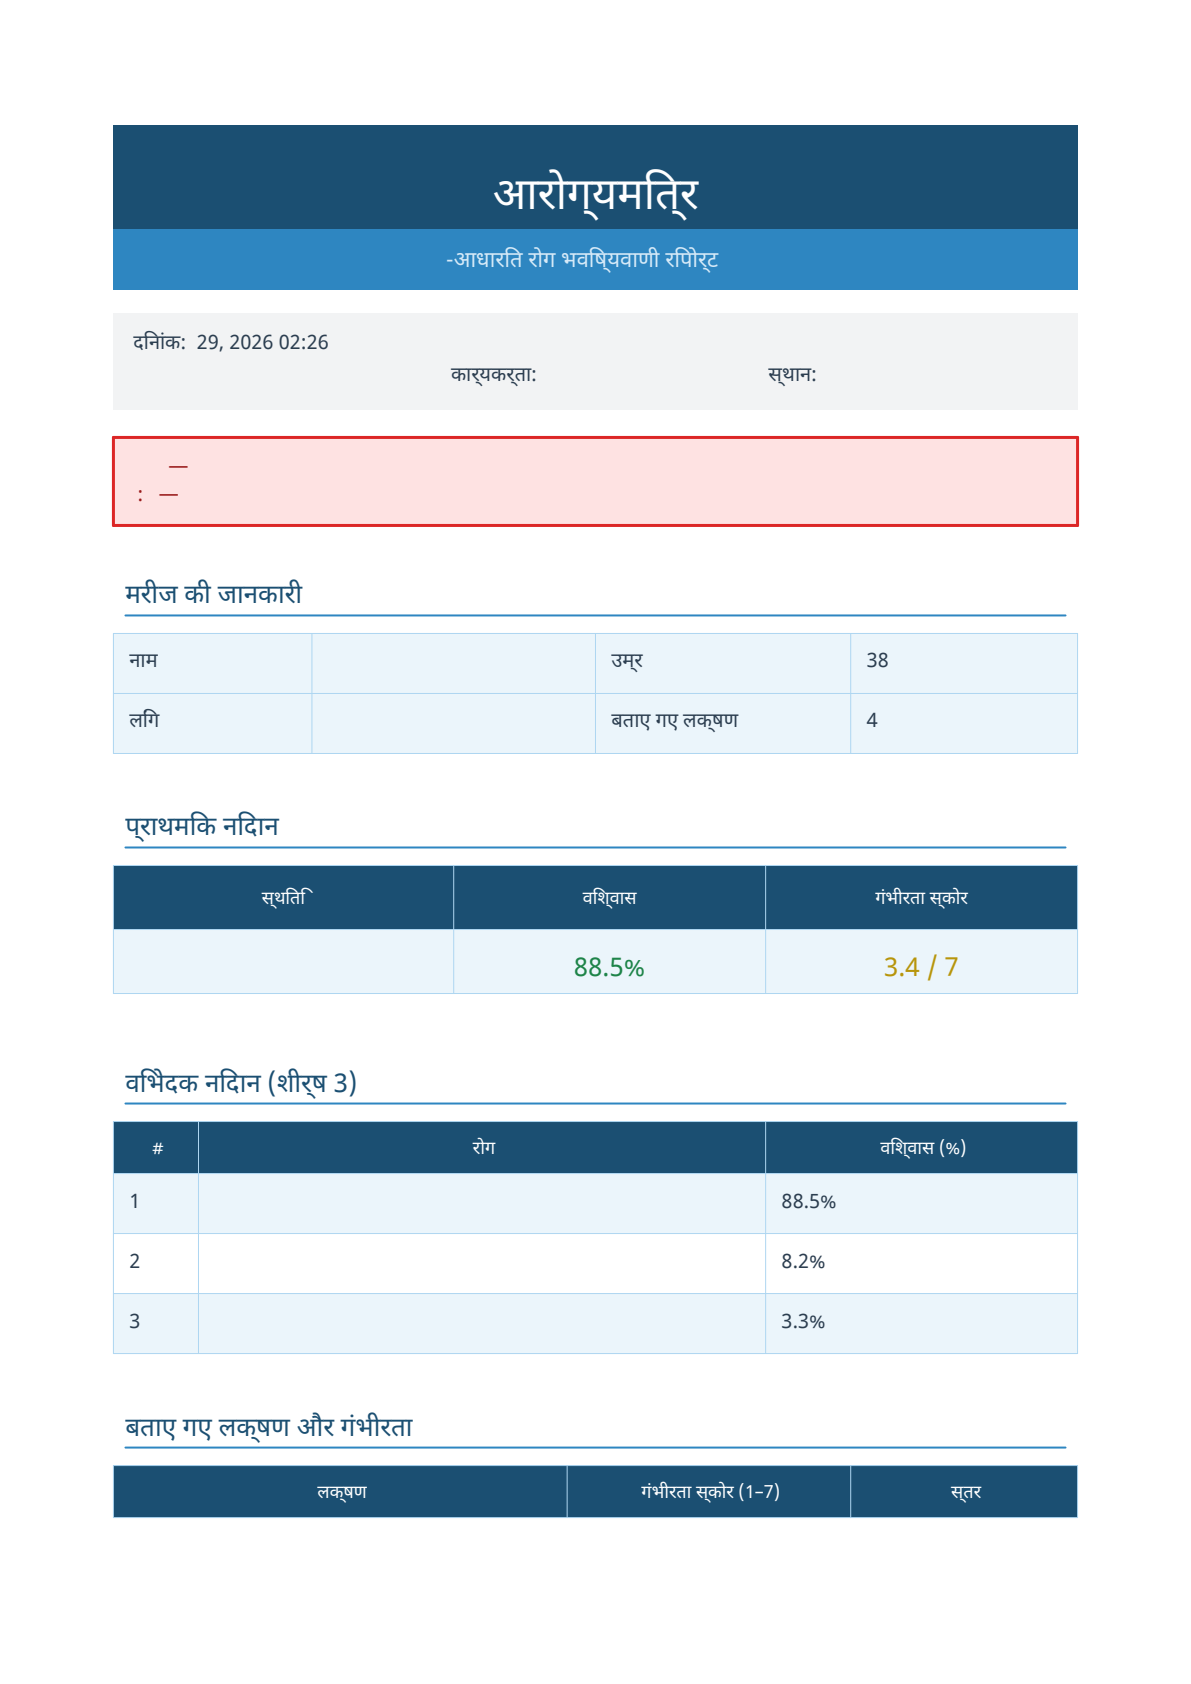
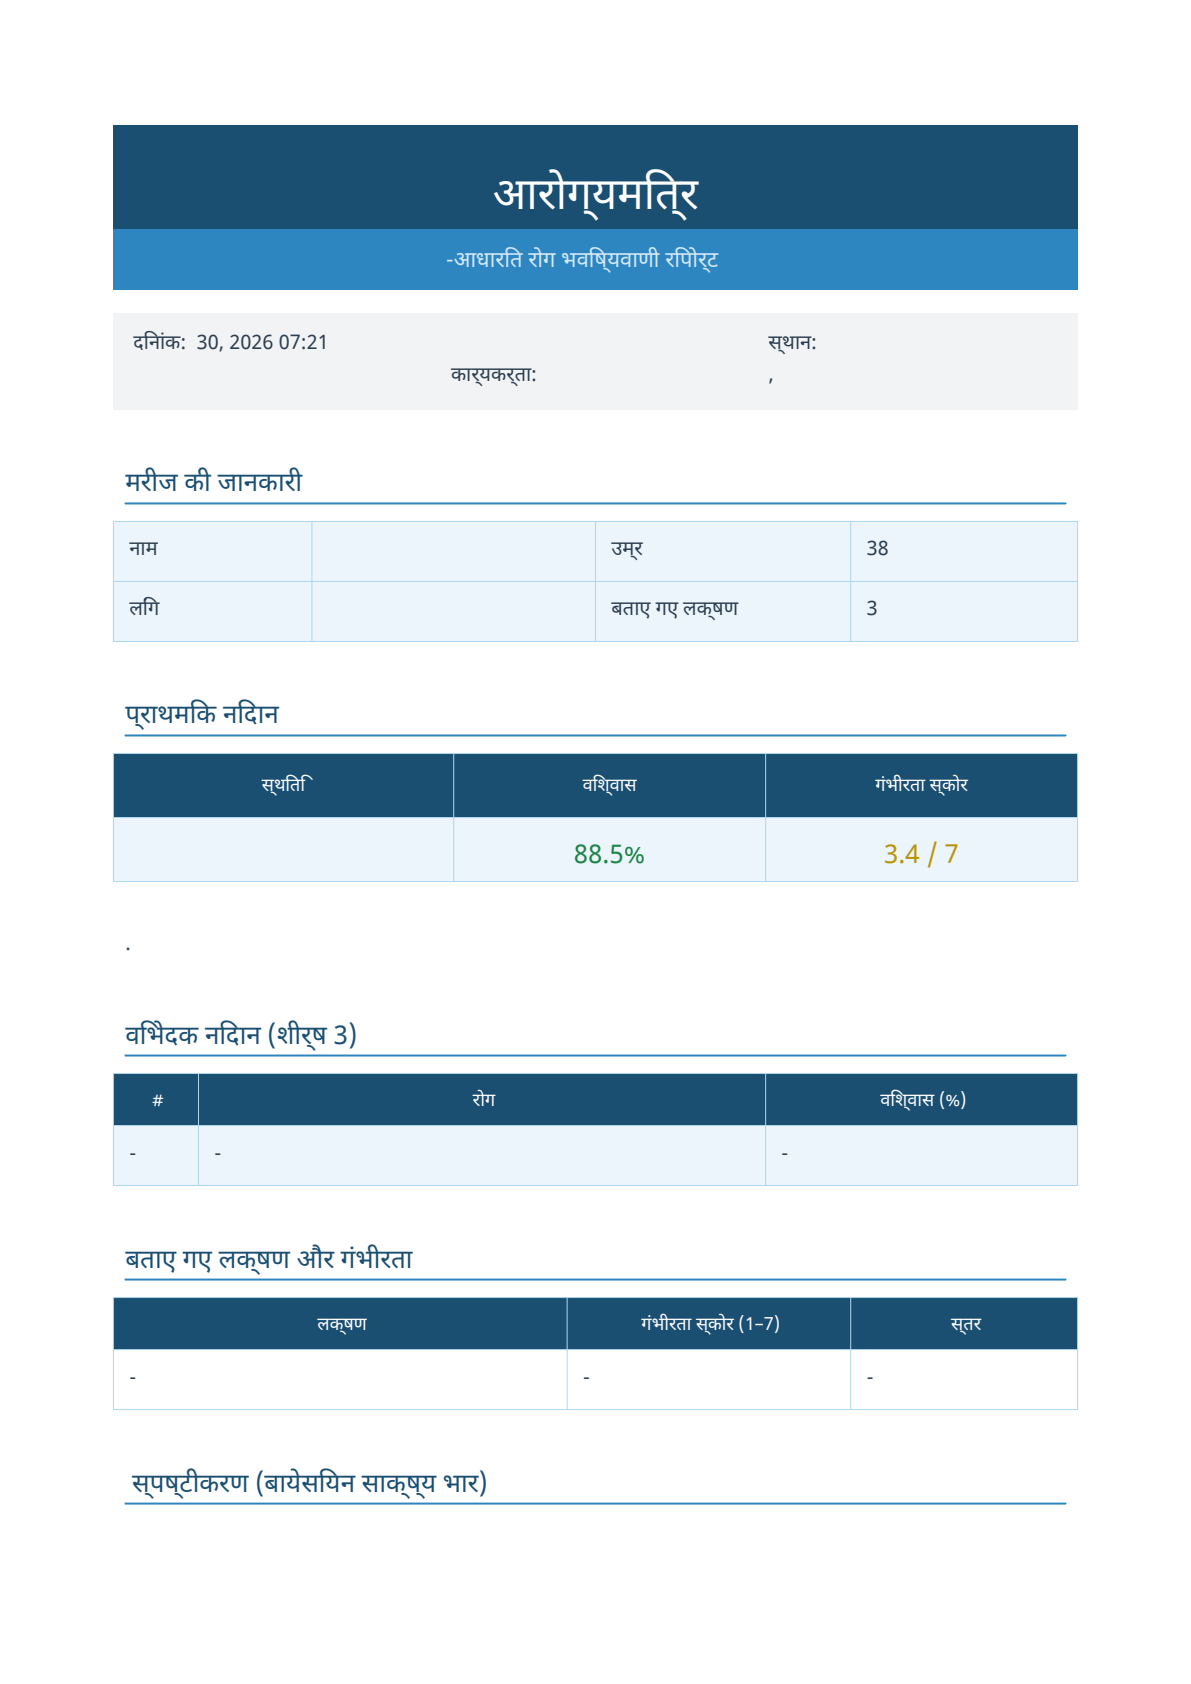
chore(wp-a2): complete Package A2 conditions, hardcoded secret elimination, live container validation, and whitespace/host checks

Changed region(s): [[0.0932, 0.1853, 0.932, 0.5867], [0.0932, 0.5867, 0.932, 0.8029], [0.0932, 0.8337, 0.932, 0.9264]]

diff --git a/Backend/src/config/serverConfig.js b/Backend/src/config/serverConfig.js
@@ -8,7 +8,7 @@ const __dirname = path.dirname(fileURLToPath(import.meta.url));
 dotenv.config({ path: path.resolve(__dirname, "../../.env") });
 dotenv.config();
 
-const envSchema = z.object({
+export const envSchema = z.object({
   PORT: z.coerce.number().default(5000),
   DB_URL: z.string().min(1, "DB_URL is required"),
   JWT_SECRET: z.string().min(32, "JWT_SECRET must be at least 32 characters long for cryptographic security"),
@@ -30,30 +30,14 @@ const envSchema = z.object({
 const parsed = envSchema.safeParse(process.env);
 
 if (!parsed.success) {
-  if (process.env.NODE_ENV === "test") {
-    // In test environment, fallback to valid testing defaults if required vars missing
-    console.error("WARN: Missing test environment variables, falling back to ephemeral test config.");
-  } else {
-    console.error("FATAL: Environment validation failed. System refusing to start:");
-    console.error(JSON.stringify(parsed.error.format(), null, 2));
+  console.error("FATAL: Environment validation failed. System refusing to start:");
+  console.error(JSON.stringify(parsed.error.format(), null, 2));
+  if (process.env.NODE_ENV !== "test") {
     process.exit(1);
   }
+  throw new Error(`Environment validation failed: ${JSON.stringify(parsed.error.format())}`);
 }
 
-const serverConfig = parsed.success
-  ? parsed.data
-  : {
-      PORT: 5000,
-      DB_URL: "mongodb://127.0.0.1:27017/arogyamitra_test",
-      JWT_SECRET: "mock_jwt_secret_for_test_runs_must_be_over_32_characters!",
-      JWT_EXPIRY: "15m",
-      REFRESH_TOKEN_EXPIRY: "7d",
-      NODE_ENV: "test",
-      FRONTEND_URL: "http://localhost:5173",
-      ML_API_URL: "http://localhost:8000",
-      GRAPH_API_URL: "http://localhost:8001",
-      INTERNAL_SERVICE_SECRET: "mock_internal_secret_for_test_runs_32_chars!",
[1 lines of base64/hex data omitted]
-    };
+const serverConfig = parsed.data;
 
 export default serverConfig;

diff --git a/Backend/tests/decisionB.test.js b/Backend/tests/decisionB.test.js
@@ -166,6 +166,36 @@ describe("WP2 — Decision B Override, State Machine & redFlag Enforcement", () 
       expect(res.body.message).toContain("Request validation failed");
     });
 
+    it("should reject accept if overrideNote consists solely of whitespace characters", async () => {
+      const consultationId = new mongoose.Types.ObjectId();
+      const mockDoc = {
+        _id: consultationId,
+        organization: orgId,
+        status: "analyzed",
+        mlAnalysis: {
+          disease: "Migraine",
+          redFlag: false,
+          needsEscalation: true,
+        },
+        workerDecision: null,
+        save: vi.fn().mockResolvedValue(true),
+      };
+
+      vi.spyOn(Consultation, "findOne").mockResolvedValue(mockDoc);
+
+      const res = await request(app)
+        .patch(`/api/v1/consultation/${consultationId}/accept`)
+        .set("Authorization", `Bearer ${workerToken}`)
+        .send({
+          overrideReason: "patient_improved",
+          overrideNote: "          ", // 10 spaces
+        });
+
+      expect(res.status).toBe(400);
+      expect(res.body.message).toContain("validation failed");
+      expect(mockDoc.save).not.toHaveBeenCalled();
+    });
+
     it("should permit accept with valid overrideReason and overrideNote (>= 10 chars) and record overrideDetails", async () => {
       const consultationId = new mongoose.Types.ObjectId();
       const mockDoc = {

diff --git a/Backend/tests/security.test.js b/Backend/tests/security.test.js
@@ -1590,4 +1590,31 @@ describe("Phase 2 — Security & Cryptographic Integrity", () => {
       });
     });
   });
-});
+
+  describe("14. Startup Environment Defense & ENCRYPTION_KEY Gating", () => {
+    it("should strictly fail envSchema validation when ENCRYPTION_KEY is missing or shorter than 32 characters in production", async () => {
+      const { envSchema } = await import("../src/config/serverConfig.js");
+      const baseEnv = {
+        PORT: 5000,
+        DB_URL: "mongodb://127.0.0.1:27017/arogyamitra_test",
+        JWT_SECRET: "mock_jwt_secret_for_test_runs_must_be_over_32_characters!",
+        INTERNAL_SERVICE_SECRET: "mock_internal_secret_for_test_runs_32_chars!",
+        NODE_ENV: "production",
+      };
+
+      const missingRes = envSchema.safeParse(baseEnv);
+      expect(missingRes.success).toBe(false);
+      expect(missingRes.error.format().ENCRYPTION_KEY).toBeDefined();
+
+      const shortRes = envSchema.safeParse({ ...baseEnv, ENCRYPTION_KEY: "short_key_16_bytes" });
+      expect(shortRes.success).toBe(false);
+      expect(shortRes.error.format().ENCRYPTION_KEY).toBeDefined();
+
+      const validRes = envSchema.safeParse({
+        ...baseEnv,
[1 lines of base64/hex data omitted]
+      });
+      expect(validRes.success).toBe(true);
+    });
+  });
+});

diff --git a/Backend/tests/setup.js b/Backend/tests/setup.js
@@ -1,0 +1,11 @@
+// Backend test environment setup
+// Injects test-only mock configuration into process.env before app/serverConfig evaluation
+process.env.NODE_ENV = "test";
+if (!process.env.PORT) process.env.PORT = "5000";
+if (!process.env.DB_URL) process.env.DB_URL = "mongodb://127.0.0.1:27017/arogyamitra_test";
+if (!process.env.JWT_SECRET) process.env.JWT_SECRET = "mock_jwt_secret_for_test_runs_must_be_over_32_characters!";
+if (!process.env.INTERNAL_SERVICE_SECRET) process.env.INTERNAL_SERVICE_SECRET = "mock_internal_secret_for_test_runs_32_chars!";
[1 lines of base64/hex data omitted]
+if (!process.env.FRONTEND_URL) process.env.FRONTEND_URL = "http://localhost:5173";
+if (!process.env.ML_API_URL) process.env.ML_API_URL = "http://localhost:8000";
+if (!process.env.GRAPH_API_URL) process.env.GRAPH_API_URL = "http://localhost:8001";

diff --git a/Backend/src/validators/schemas.js b/Backend/src/validators/schemas.js
@@ -100,7 +100,7 @@ export const acceptConsultationSchema = z.object({
     "patient_declined_referral",
     "other",
   ]).optional(),
-  overrideNote: z.string().min(10, "Override note must be at least 10 characters").optional(),
+  overrideNote: z.string().trim().min(10, "Override note must be at least 10 non-whitespace characters").optional(),
 }).strict();
 
 export const escalateConsultationSchema = z.object({

diff --git a/Backend/vitest.config.js b/Backend/vitest.config.js
@@ -1,0 +1,9 @@
+import { defineConfig } from "vitest/config";
+
+export default defineConfig({
+  test: {
+    environment: "node",
+    setupFiles: ["./tests/setup.js"],
+    globals: true,
+  },
+});

diff --git a/ui/pages/1_Worker_Triage.py b/ui/pages/1_Worker_Triage.py
@@ -206,10 +206,53 @@ if "triage_results" in st.session_state:
     st.markdown("---")
 
     # Action Buttons: Accept / Escalate / Download PDF
+    is_red_flag = bool(ml.get("redFlag"))
+    needs_escalation = bool(ml.get("needsEscalation"))
+
+    if is_red_flag:
+        st.error("🚨 **RED FLAG DETECTED (HTTP 409):** Direct accept is strictly blocked. Clinical red flags require immediate escalation to a Medical Officer or referral to an emergency hospital facility.")
+    elif needs_escalation:
+        st.warning("⚠ **ESCALATION RECOMMENDED:** This presentation suggests secondary referral. If accepting locally, Decision B clinical override criteria (canonical reason + minimum 10-character clinical note) are required.")
+        with st.expander("📝 Decision B Clinical Override Form", expanded=True):
+            CANONICAL_OVERRIDE_REASONS = [
+                "patient_improved",
+                "referred_in_person",
+                "doctor_unreachable",
+                "patient_declined_referral",
+                "other"
+            ]
+            sel_reason = st.selectbox(
+                "Clinical Override Reason (Required)",
+                options=CANONICAL_OVERRIDE_REASONS,
+                format_func=lambda r: {
+                    "patient_improved": "Patient condition improved substantially",
+                    "referred_in_person": "Patient physically referred to nearby CHC/hospital",
+                    "doctor_unreachable": "Medical officer unreachable after multiple attempts",
+                    "patient_declined_referral": "Patient declined institutional referral",
+                    "other": "Other documented clinical justification",
+                }.get(r, r),
+                key="worker_override_reason"
+            )
+            override_note = st.text_area(
+                "Clinical Override Justification Note (Min 10 non-whitespace characters)",
+                placeholder="Document clinical rationale for local management without MO second opinion...",
+                key="worker_override_note"
+            )
+
     act_col1, act_col2, act_col3 = st.columns(3)
     with act_col1:
-        if st.button(f"✅ {t('accept_decision', lang)}", use_container_width=True):
-            st.success("Triage consultation finalized and saved to patient record.")
+        if is_red_flag:
+            st.button(f"🚫 {t('accept_decision', lang)} (Blocked)", disabled=True, use_container_width=True)
+        elif needs_escalation:
+            if st.button(f"✅ {t('accept_decision', lang)} (With Override)", use_container_width=True):
+                note_clean = (st.session_state.get("worker_override_note") or "").strip()
+                if len(note_clean) < 10:
+                    st.error("Validation Error: Clinical override note must contain at least 10 non-whitespace characters.")
+                else:
+                    st.success(f"Consultation accepted under Decision B override: '{st.session_state.get('worker_override_reason')}' recorded.")
+        else:
+            if st.button(f"✅ {t('accept_decision', lang)}", use_container_width=True):
+                st.success("Triage consultation finalized and saved to patient record.")
 
     with act_col2:
         if st.button(f"🚨 {t('escalate_decision', lang)}", type="primary", use_container_width=True):

diff --git a/scripts/render_container_pdfs.py b/scripts/render_container_pdfs.py
@@ -1,0 +1,70 @@
+import os
+import pypdfium2 as pdfium
+from utils.pdf_generator import generate_pdf
+
+sample_report_data = {
+    "patientName": "Sunita Patil",
+    "patientAge": 38,
+    "patientGender": "Female",
+    "workerName": "Asha Worker Rekha",
+    "location": "Shirur Primary Health Centre, Pune",
+    "primaryDiagnosis": "Fungal infection",
+    "confidenceScore": 88.5,
+    "severityScore": 3.4,
+    "differentialDiagnoses": [
+        {"disease": "Fungal infection", "probability": 0.885},
+        {"disease": "Allergy", "probability": 0.082},
+        {"disease": "GERD", "probability": 0.033},
+    ],
+    "matchedSymptoms": ["itching", "skin_rash", "nodal_skin_eruptions"],
+    "severityDetails": [
+        {"symptom": "itching", "weight": 1, "level": "Low"},
+        {"symptom": "skin_rash", "weight": 3, "level": "Moderate"},
+        {"symptom": "nodal_skin_eruptions", "weight": 4, "level": "Moderate"},
+    ],
+    "precautions": [
+        "bath twice",
+        "use dettol or neem in bathing water",
+        "keep area dry and clean",
+        "use clean cloths",
+    ],
+    "description": "Fungal infection is a common skin disease caused by fungi affecting superficial layers.",
+    "redFlag": False,
+    "risk": "Low",
+    "symptomContributions": [
+        {"feature": "itching present", "impact": 2.14, "direction": "Supports Diagnosis"},
+        {"feature": "skin_rash present", "impact": 1.82, "direction": "Supports Diagnosis"},
+        {"feature": "nodal_skin_eruptions present", "impact": 1.45, "direction": "Supports Diagnosis"},
+    ],
+    "llmConclusion": {
+        "diagnosis_summary": "Classic presentation of superficial fungal dermatosis.",
+        "confidence_interpretation": "High Bayesian certainty based on characteristic triad.",
+        "severity_assessment": "Mild dermatological presentation, non-emergency.",
+        "key_contributing_factors": "Itching, rash, and nodal lesions.",
+        "recommended_next_steps": "Apply topical antifungal cream and observe hygiene precautions.",
+        "referral_recommendation": "Routine PHC outpatient follow-up in 10 days.",
+        "llmFallback": False,
+    },
+}
+
+out_dir = "/app/output"
+os.makedirs(out_dir, exist_ok=True)
+
+for lang in ["hi", "mr"]:
+    pdf_bytes = generate_pdf(sample_report_data, language=lang)
+    assert pdf_bytes.startswith(b"%PDF-"), f"Invalid PDF bytes for {lang}"
+    
+    pdf_path = os.path.join(out_dir, f"report_{lang}.pdf")
+    with open(pdf_path, "wb") as f:
+        f.write(pdf_bytes)
+    
+    # Rasterize page 1 to PNG via pypdfium2 inside the container
+    doc = pdfium.PdfDocument(pdf_bytes)
+    page = doc[0]
+    pixmap = page.render(scale=2.0)
+    img = pixmap.to_pil()
+    png_path = os.path.join(out_dir, f"report_{lang}_p1.png")
+    img.save(png_path)
+    print(f"[CONTAINER] Rendered {lang.upper()} PDF ({len(pdf_bytes)} bytes) -> {pdf_path} & {png_path}")
+
+print("[CONTAINER] PDF and PNG generation inside arogya-graph complete.")

diff --git a/ML_Model/app.py b/ML_Model/app.py
@@ -544,7 +544,11 @@ def model_info():
         "trainingTimestamp": metadata.get("training_timestamp"),
         "gitCommit": metadata.get("git_commit"),
         "dataset": metadata.get("dataset"),
-        "metrics": metadata.get("metrics_on_unique_ground_truth"),
+        "metrics": {
+            "out_of_fold_cross_validation": metadata.get("out_of_fold_cross_validation_benchmark"),
+            "in_sample_clean_data": metadata.get("in_sample_metrics_on_clean_data"),
+            "model_card": "ML_Model/model/v2/metadata.json",
+        },
         "totalSymptoms": len(symptom_columns),
         "totalClasses": len(label_encoder.classes_) if label_encoder else 0,
         "classes": list(label_encoder.classes_) if label_encoder else []

diff --git a/conftest.py b/conftest.py
@@ -6,3 +6,4 @@ for folder in ["ML_Model", "graph", "ui"]:
     p = os.path.join(root, folder)
     if p not in sys.path:
         sys.path.insert(0, p)
+

diff --git a/ui/utils/__init__.py b/ui/utils/__init__.py
@@ -1,1 +1,2 @@
 # ui utils package
+

diff --git a/ui/__init__.py b/ui/__init__.py
@@ -1,1 +1,2 @@
 # ui package
+
